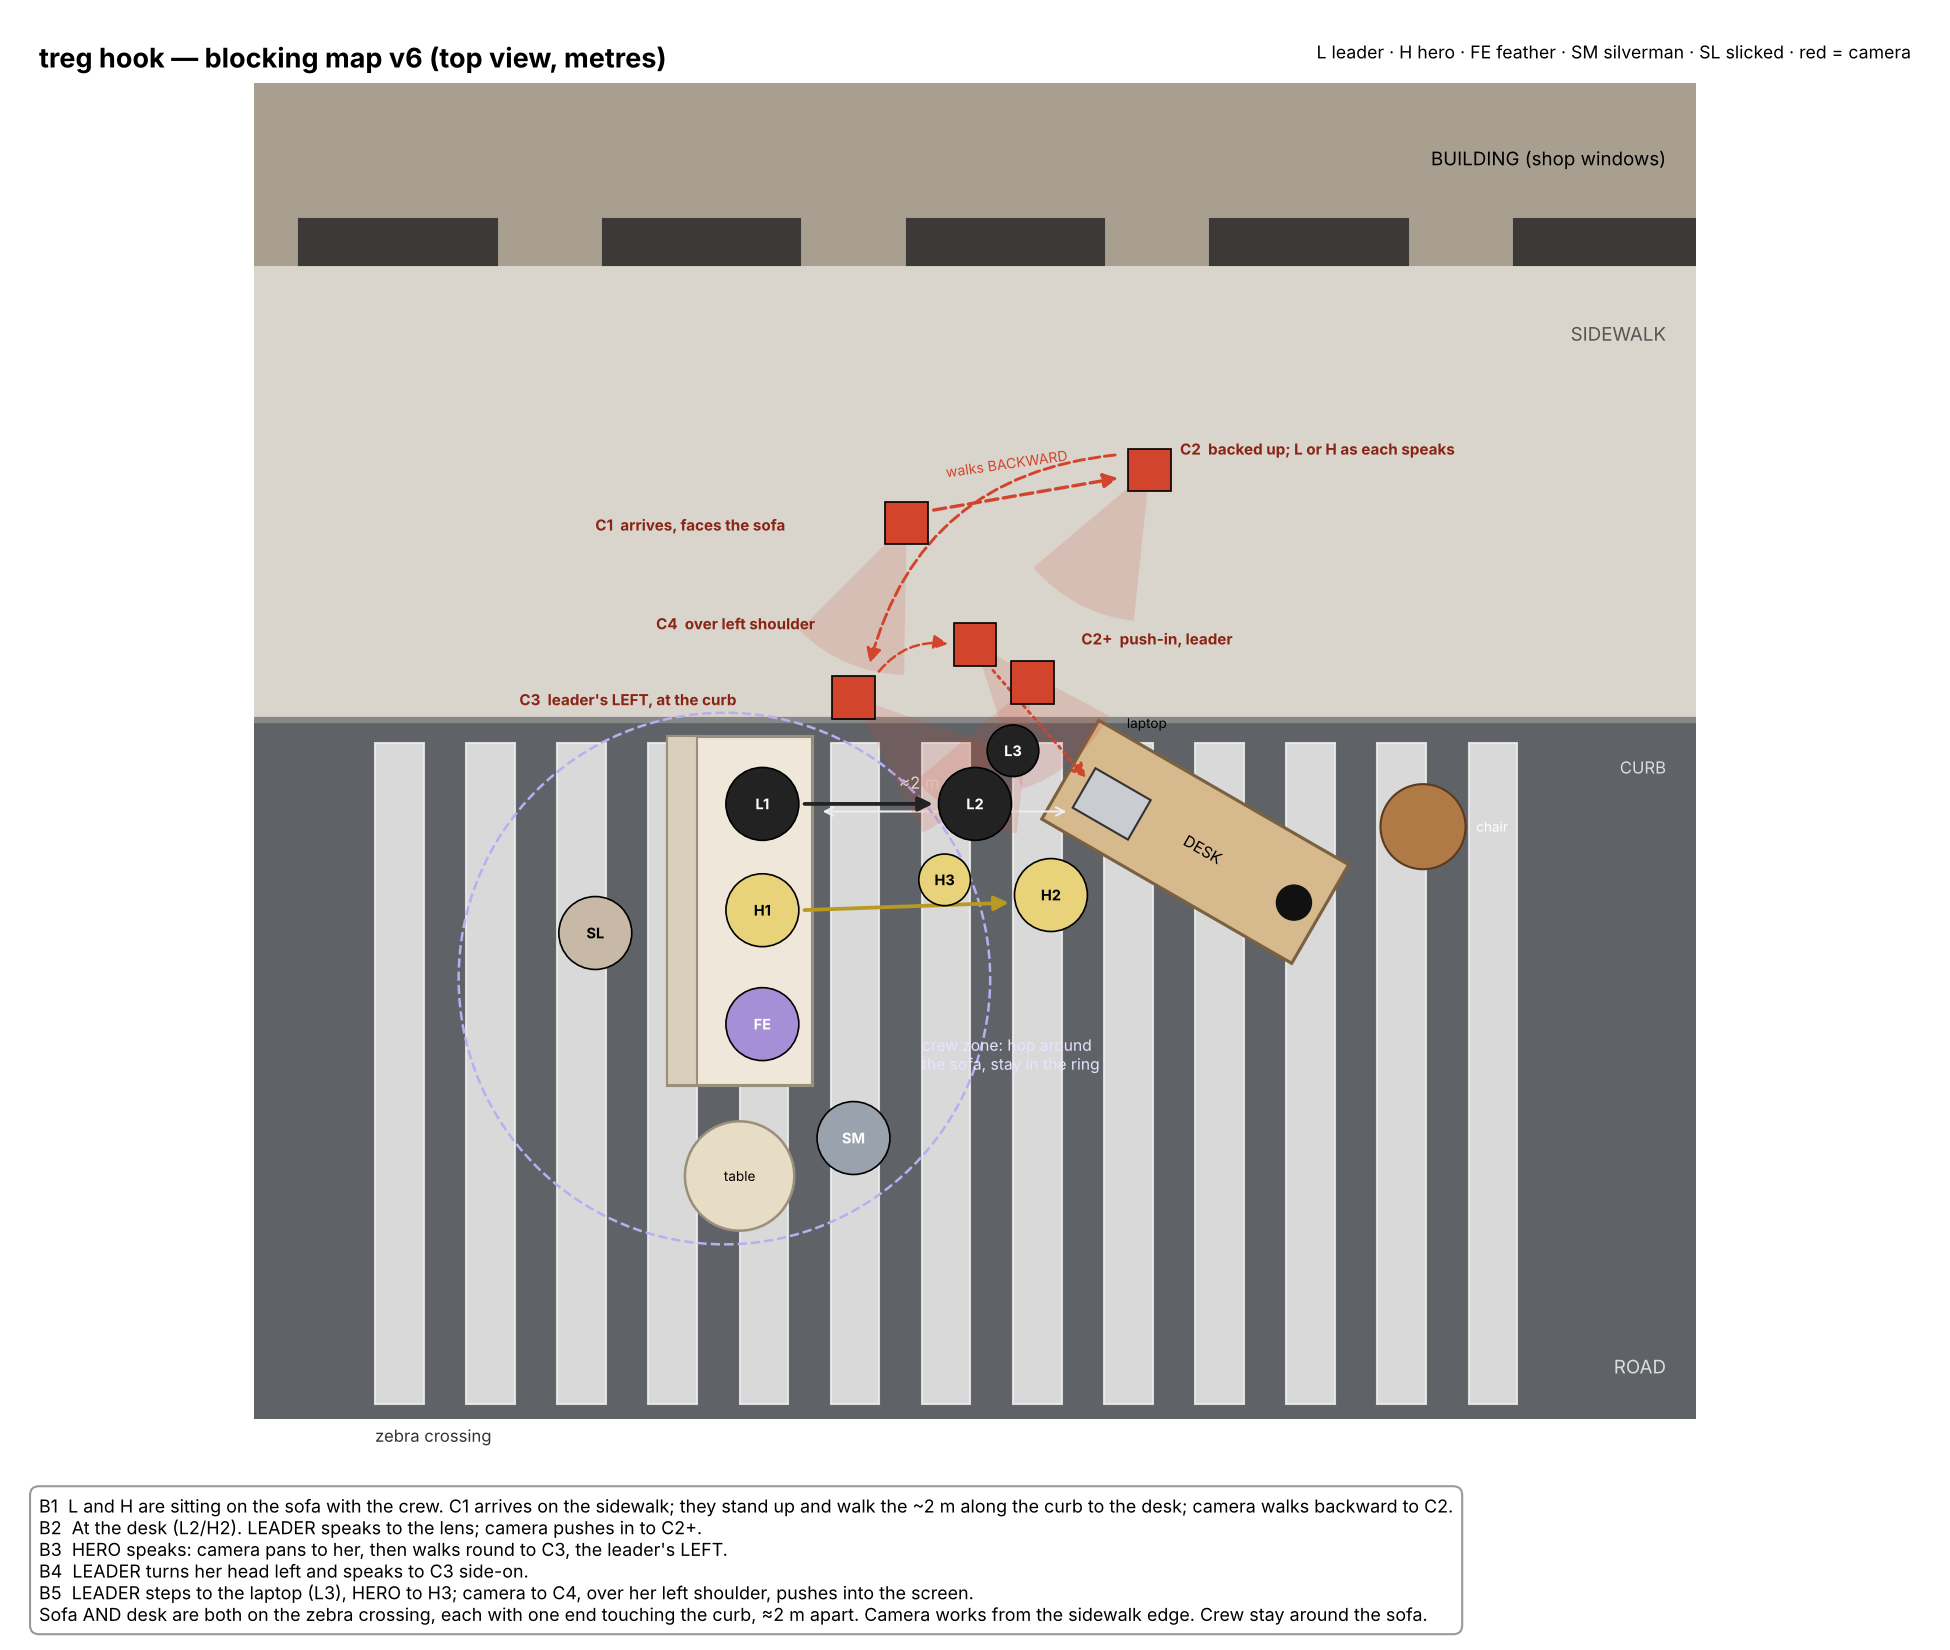
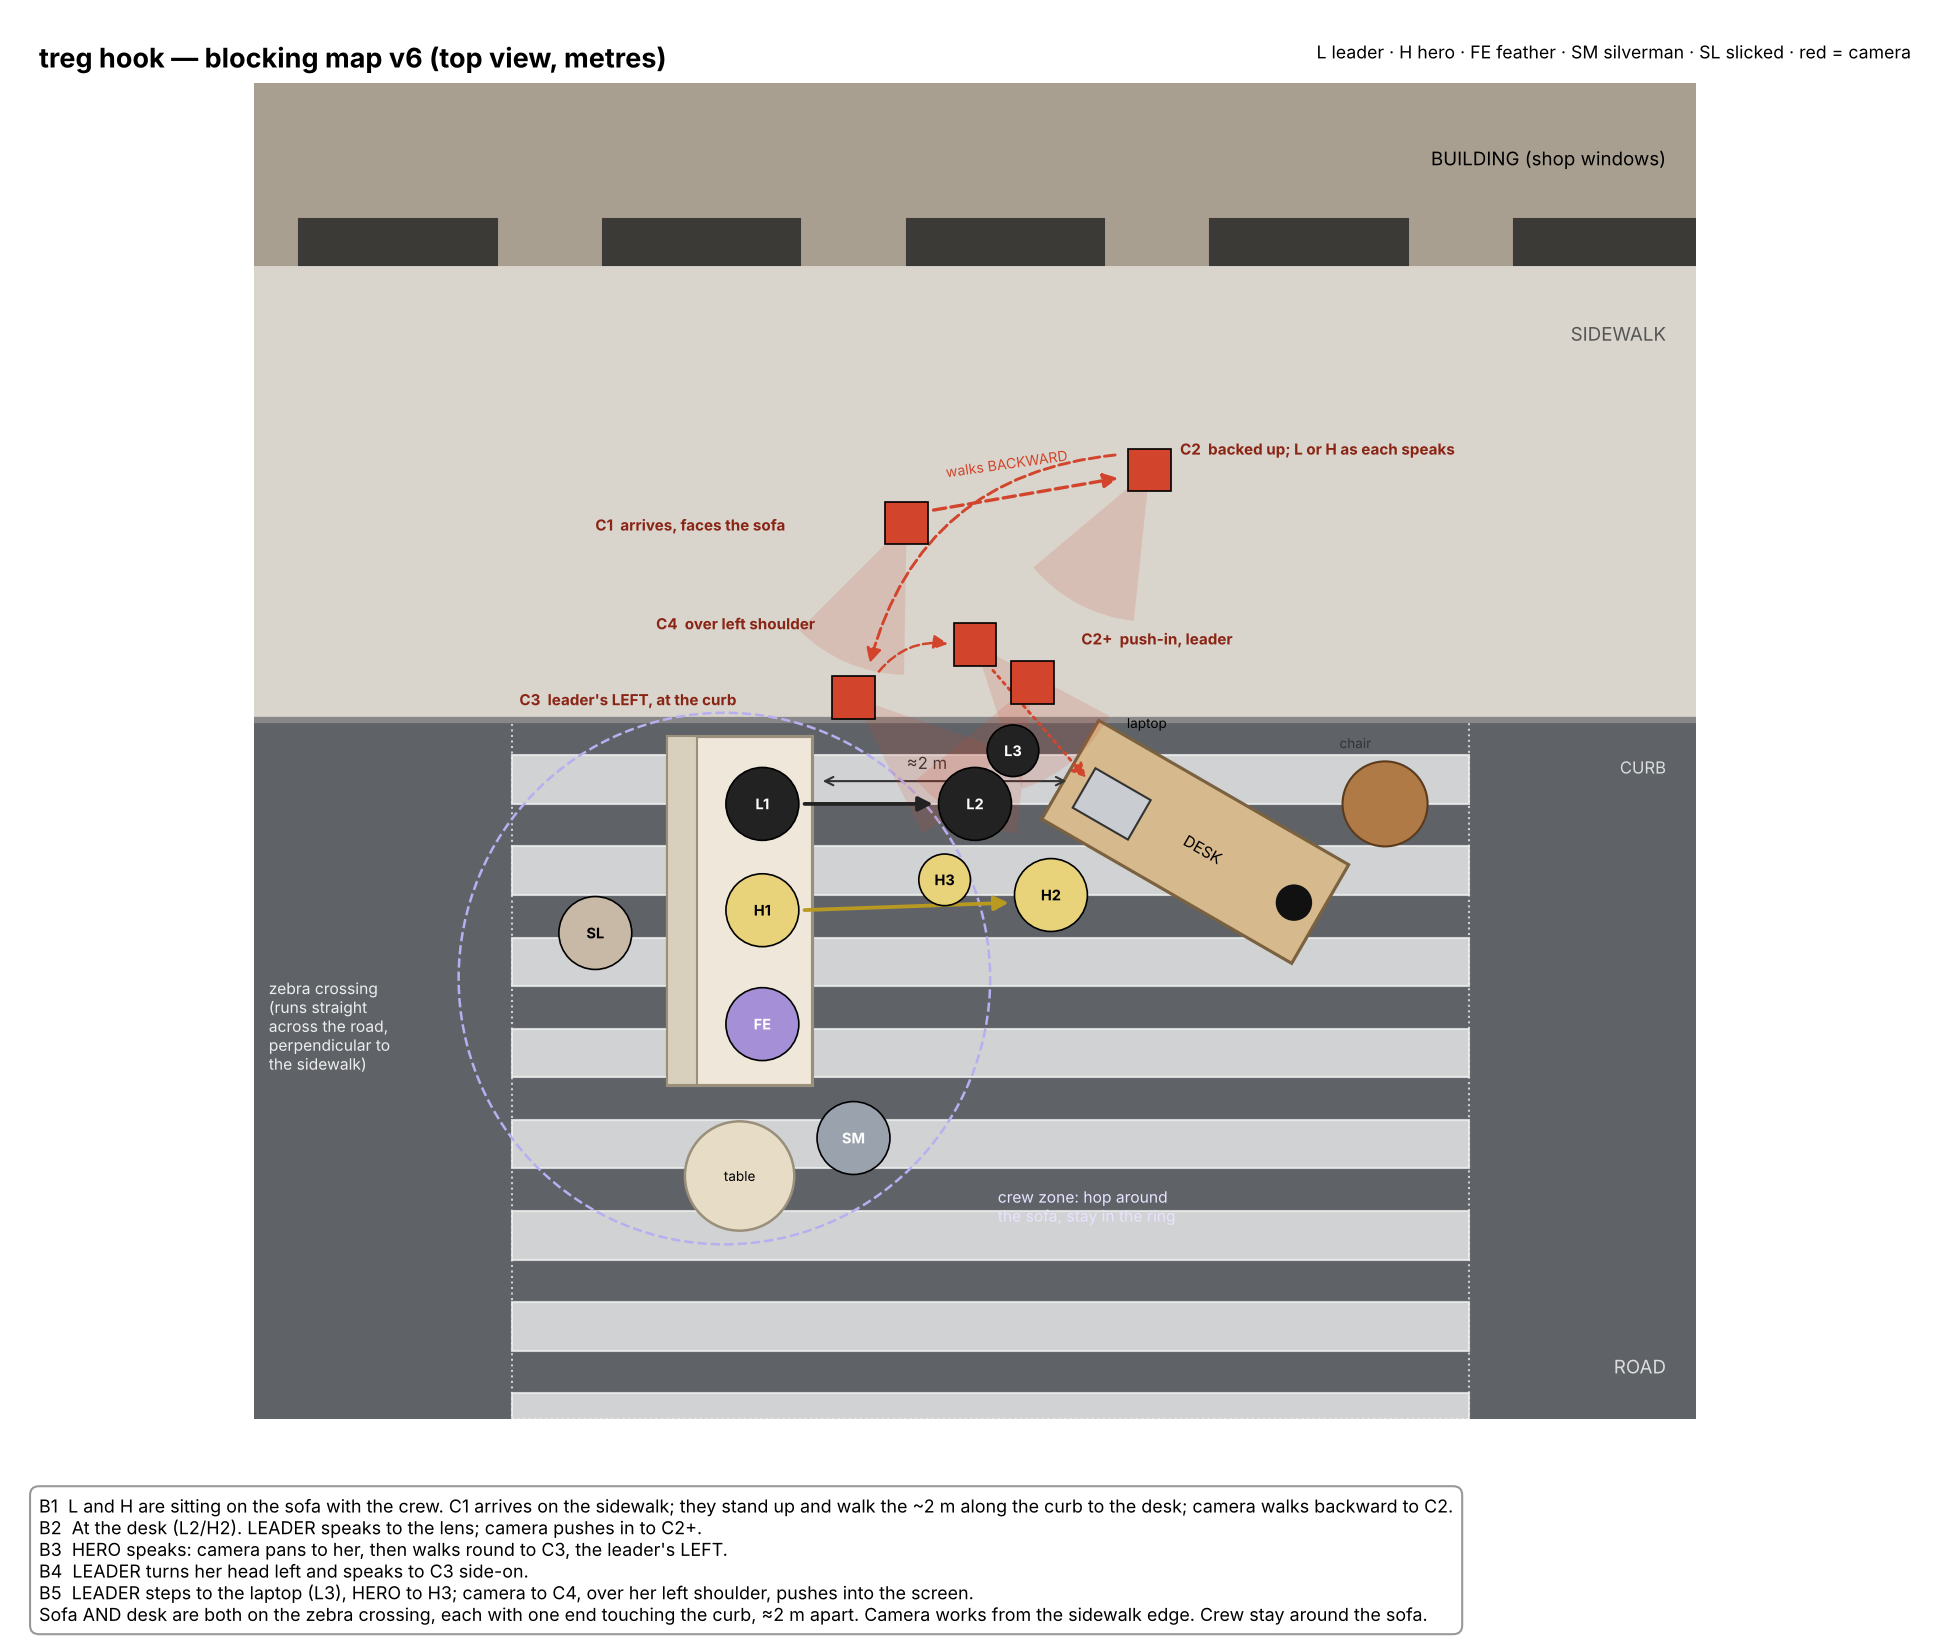
Blocking v6: zebra crossing drawn perpendicular to the sidewalk
Claude-Session: https://claude.ai/code/session_01UrVJCYAfMmjv3QQnRf3jKV

Changed region(s): [[0.1231, 0.4327, 0.8, 0.8655]]

diff --git a/prompts/blocking_v6.py b/prompts/blocking_v6.py
@@ -17,13 +17,16 @@ ax.add_patch(Rectangle((-2, 3), 10, 1.2, color="#a89f91"))           # building
 for i in range(5):
     ax.add_patch(Rectangle((-1.7 + i * 2.0, 3.0), 1.3, 0.3, color="#3b3a36"))
 ax.plot([-2, 8], [0, 0], color="#888", lw=3)
-for i in range(13):                                                   # zebra stripes, run across the road
-    ax.add_patch(Rectangle((-1.2 + i * 0.6, -4.5), 0.32, 4.35, color="#efefef", alpha=.85, zorder=1))
+# zebra crossing: a 6 m wide band running straight out from the curb across the road
+# (perpendicular to the sidewalk); stripes lie parallel to the curb
+ax.add_patch(Rectangle((-0.3, -4.6), 6.3, 4.6, fill=False, ec="#cfcfcf", ls=":", lw=1, zorder=1))
+for i in range(8):
+    ax.add_patch(Rectangle((-0.3, -0.55 - i * 0.6), 6.3, 0.32, color="#efefef", alpha=.8, zorder=1))
 ax.text(7.3, 3.7, "BUILDING (shop windows)", ha="right", va="center", fontsize=9)
 ax.text(7.3, 2.5, "SIDEWALK", ha="right", fontsize=9, color="#555")
 ax.text(7.3, -0.35, "CURB", ha="right", fontsize=8, color="#ddd")
 ax.text(7.3, -4.3, "ROAD", ha="right", fontsize=9, color="#ddd")
-ax.text(-1.2, -4.75, "zebra crossing", fontsize=8, color="#333")
+ax.text(-1.9, -2.3, "zebra crossing\n(runs straight\nacross the road,\nperpendicular to\nthe sidewalk)", fontsize=7.5, color="#eee")
 
 def rot_rect(cx, cy, w, h, ang, **kw):
     a = math.radians(ang)
@@ -42,17 +45,17 @@ ax.text(4.25, -0.85, "DESK", ha="center", va="center", fontsize=7.5, rotation=-3
 rot_rect(3.65, -0.55, 0.42, 0.3, -30, fc="#c9cdd2", ec="#333", lw=1)       # laptop on the near end
 ax.text(3.75, -0.05, "laptop", fontsize=6.5)
 ax.add_patch(Circle((4.85, -1.2), 0.12, fc="#111", zorder=3))
-ax.add_patch(Circle((5.7, -0.7), 0.28, fc="#b07a46", ec="#5a3b1e", zorder=2))
-ax.text(6.05, -0.7, "chair", fontsize=6.5, va="center", color="white")
-ax.annotate("", xy=(1.72, -0.6), xytext=(3.38, -0.6), arrowprops=dict(arrowstyle="<->", color="#eee", lw=1))
-ax.text(2.25, -0.45, "≈2 m", fontsize=8, color="#eee")
+ax.add_patch(Circle((5.45, -0.55), 0.28, fc="#b07a46", ec="#5a3b1e", zorder=2))
+ax.text(5.15, -0.15, "chair", fontsize=6.5, va="center", color="#333")
+ax.annotate("", xy=(1.72, -0.4), xytext=(3.38, -0.4), arrowprops=dict(arrowstyle="<->", color="#333", lw=1))
+ax.text(2.3, -0.32, "≈2 m", fontsize=8, color="#333")
 
 def person(x, y, label, col, r=0.24, txt="white"):
     ax.add_patch(Circle((x, y), r, fc=col, ec="black", lw=0.8, zorder=6))
     ax.text(x, y, label, ha="center", va="center", fontsize=7, color=txt, zorder=7, weight="bold")
 
 ax.add_patch(Circle((1.1, -1.7), 1.75, fill=False, ls="--", ec="#b9aef0", lw=1.2, zorder=3))
-ax.text(2.4, -2.3, "crew zone: hop around\nthe sofa, stay in the ring", fontsize=7.5, color="#e9e3ff")
+ax.text(2.9, -3.3, "crew zone: hop around\nthe sofa, stay in the ring", fontsize=7.5, color="#e9e3ff")
 person(1.35, -2.0, "FE", "#a58fd6")
 person(1.95, -2.75, "SM", "#9aa3ad")
 person(0.25, -1.4, "SL", "#c7b9a6", txt="black")
